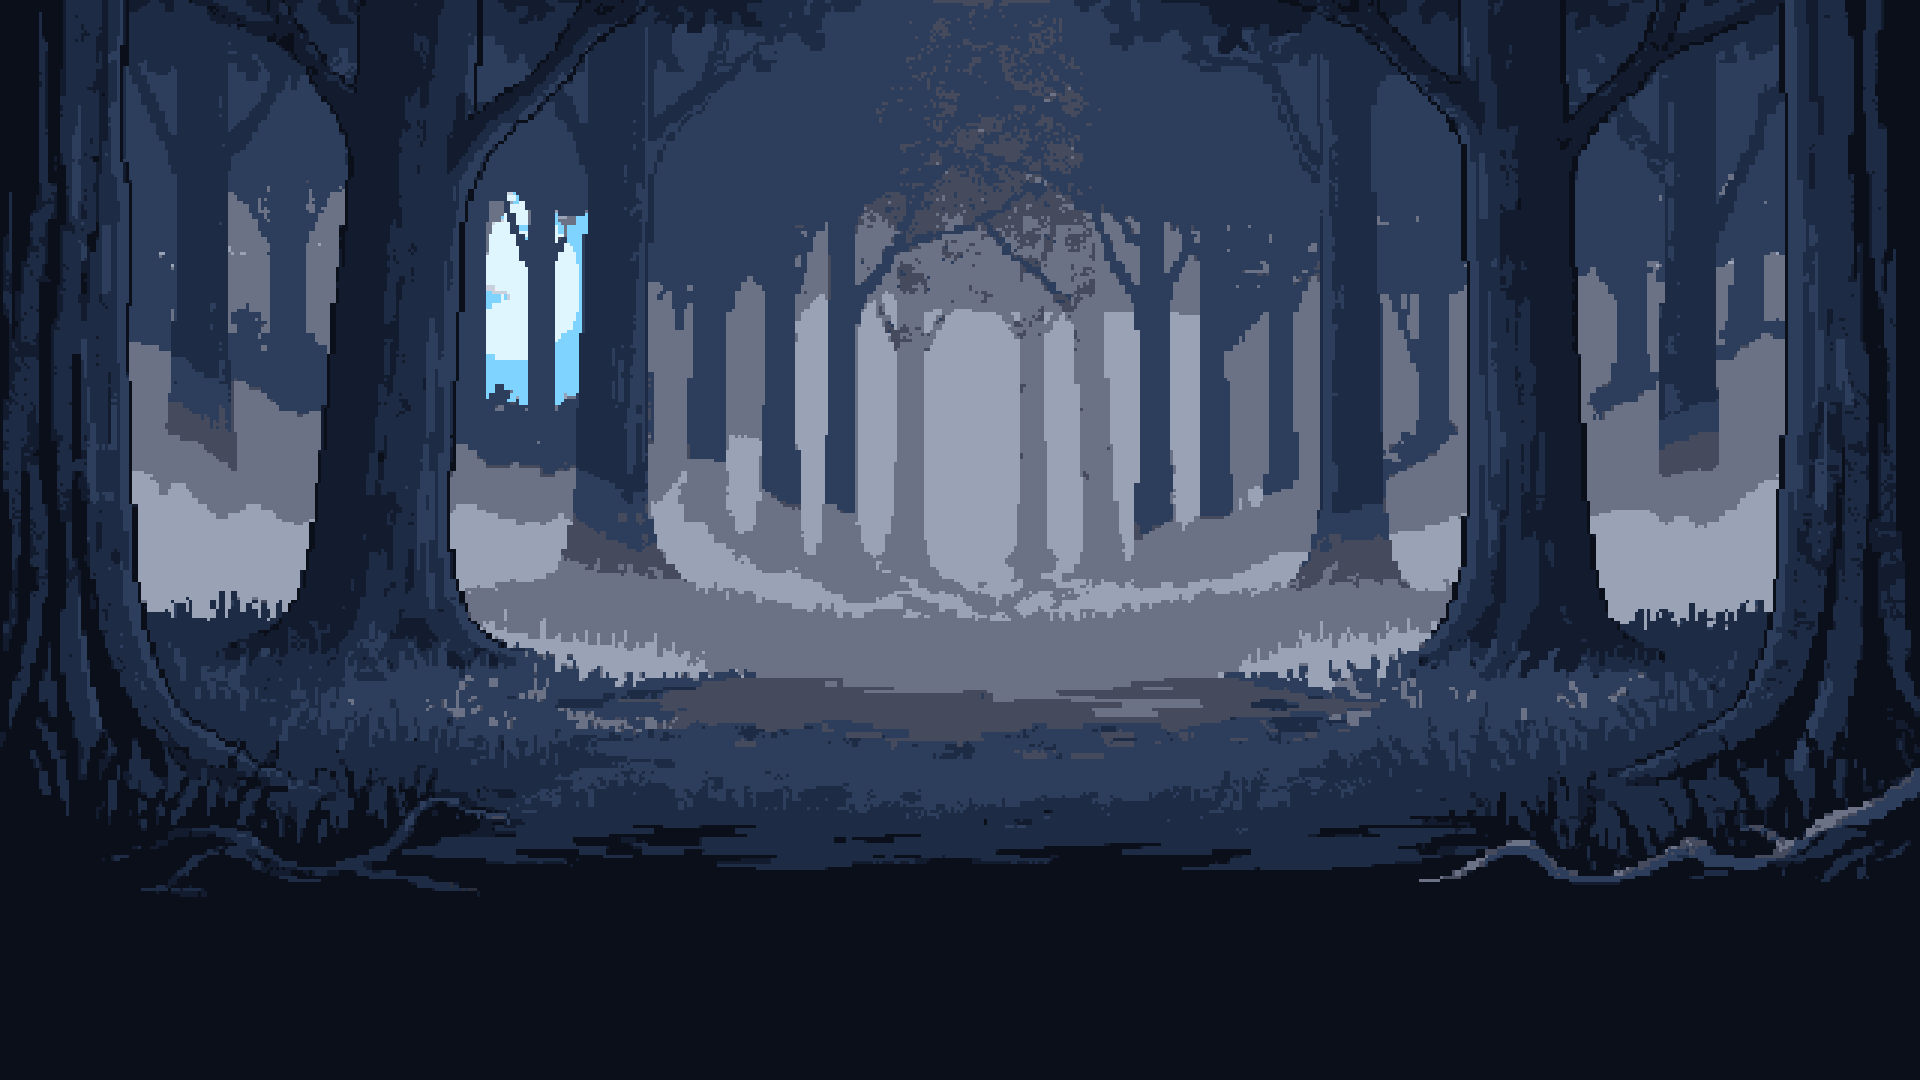
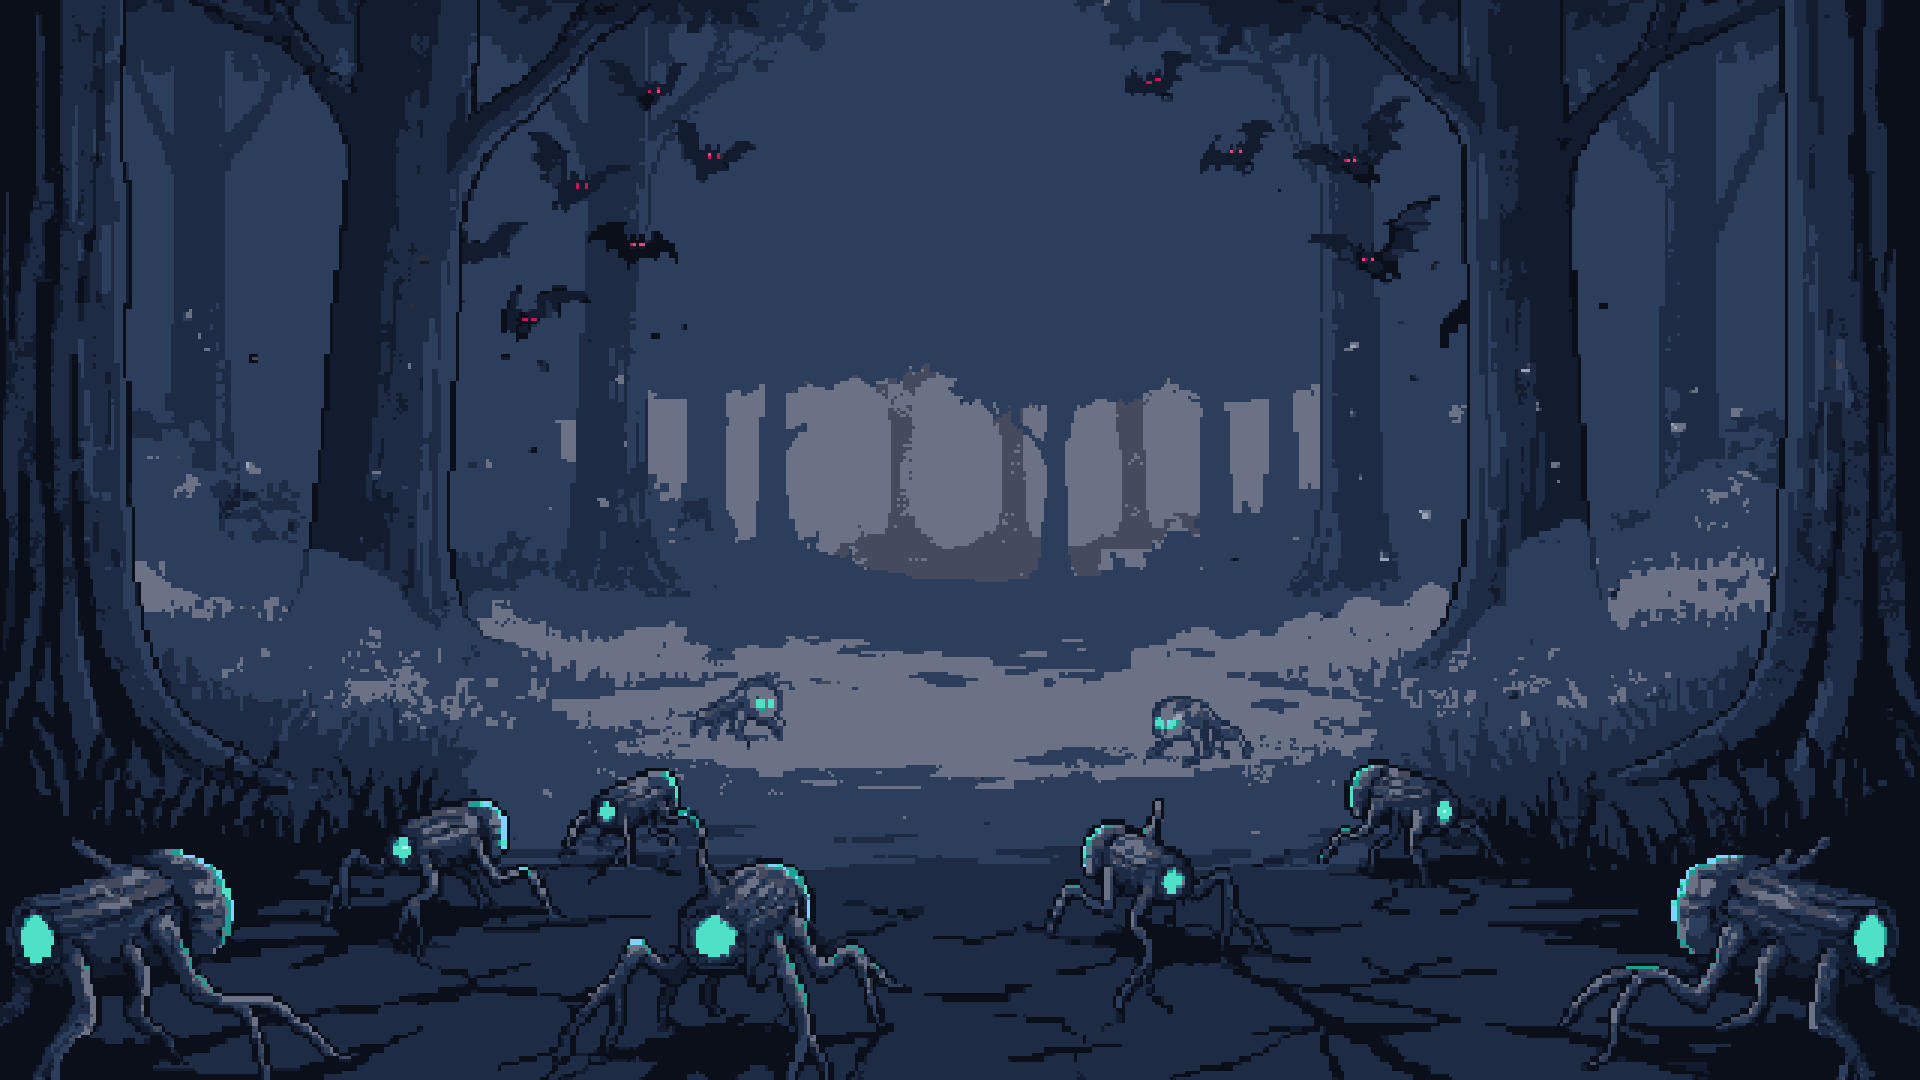
fix(cinematique): le plan 4 du Cerf garde la horde et efface seulement le Cerf
ill-04 est refait à partir d'ill-03 au lieu d'ill-01 : la horde appelée au
plan 3 reste au pixel près, seul le Cerf disparaît (inpaint sous masque,
carré 256 × 256). Le plan gagne un léger travelling, des yeux dans le noir
et une fumée recentrée.

Un test vérifie qu'aucun pixel ne change hors de la zone du Cerf entre
ill-03 et ill-04.

diff --git a/packages/braise/tests/unit/cinematic.test.ts b/packages/braise/tests/unit/cinematic.test.ts
@@ -162,6 +162,26 @@ describe('les cinématiques du Cerf', () => {
     });
   }
 
+  it('la horde appelée au plan 3 est encore là au plan 4, seul le Cerf a disparu', () => {
+    const read = (name: string) => PNG.sync.read(readFileSync(join(publicDir, 'cinematics', 'stag-call', `${name}.png`)));
+    const before = read('ill-03');
+    const after = read('ill-04');
+    // Les bois et les lanternes, puis le corps (x0, y0, x1, y1).
+    const stag = [[228, 62, 414, 182], [264, 120, 366, 272]] as const;
+    let outside = 0;
+    let erased = 0;
+    for (let y = 0; y < before.height; y++) {
+      for (let x = 0; x < before.width; x++) {
+        const i = (y * before.width + x) * 4;
+        if (before.data.readUInt32BE(i) === after.data.readUInt32BE(i)) continue;
+        if (stag.some(([x0, y0, x1, y1]) => x >= x0 && x <= x1 && y >= y0 && y <= y1)) erased++;
+        else outside++;
+      }
+    }
+    expect(outside).toBe(0);
+    expect(erased).toBeGreaterThan(5000);
+  });
+
   it('chaque région nomme des cinématiques qui existent', () => {
     for (const region of Object.values(RAW.regions as Array<{ cinematics?: { first: string; reborn: string } }>)) {
       if (!region.cinematics) continue;

diff --git a/packages/braise/assets/source/cinematique-stag-call/README.md b/packages/braise/assets/source/cinematique-stag-call/README.md
@@ -13,11 +13,12 @@ Image de style de toutes les images : `cinematique-memory-meeting/ill-01.png` (l
 | `ill-01.png` | Le Bois large, le Cerf au loin | `49297e83-b9e4-4bad-a022-24fe590ad2b6` | sprite `boss-cerf` |
 | `ill-02.png` | Gros plan de la tête | `2c10affe-4dcc-4ca1-9b8f-44598fa16f93` | sprite `boss-cerf` |
 | `ill-03.png` | Il brame, la horde sort | `386a5435-21ed-4d63-b218-8b9b45c22be0` | sprites `boss-cerf`, `enemy-rampant`, `enemy-chauve-suie` |
-| `ill-04.png` | Le Bois sans le Cerf | inpaint `f929f6ea-a2c3-473c-945d-761aa17a5a1d` (10 générations) | `ill-01` |
+| `ill-04.png` | La horde seule, le Cerf a disparu | inpaint `80876988-dc09-4413-ac0d-ee46bae7dca6` (10 générations, graine 7, 2026-11-25) | `ill-03` |
 
-`ill-04` est `ill-01` dont le Cerf est effacé : l'inpaint ne prend pas plus de 512 px, donc le carré
-256 × 256 posé en (200, 60) a été repeint (masque 100 × 96 en (82, 64) du carré, « empty misty forest
-path… no animal »), puis recollé. Le carré rendu est `crop-sans-cerf.png` ; aucun pixel hors palette.
+`ill-04` est `ill-03` dont le Cerf est effacé, la horde reste au pixel près : l'inpaint ne prend pas plus
+de 512 px, donc le carré 256 × 256 posé en (192, 40) a été repeint sous le masque
+`crop-sans-cerf-masque.png` (« empty misty night forest clearing… no stag, no creature »), puis recollé. Le
+carré rendu est `crop-sans-cerf.png` ; aucun pixel hors palette.
 
 ## Prompts
 
